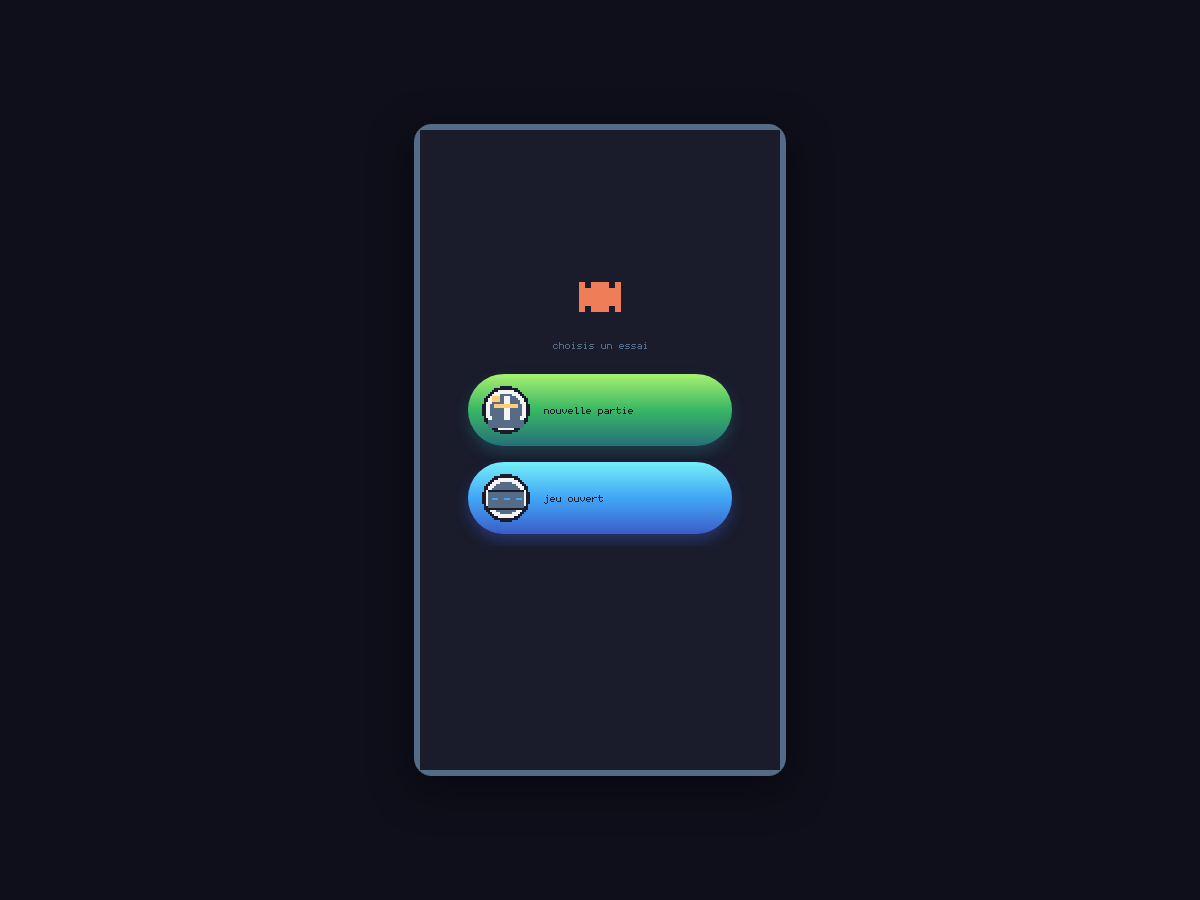
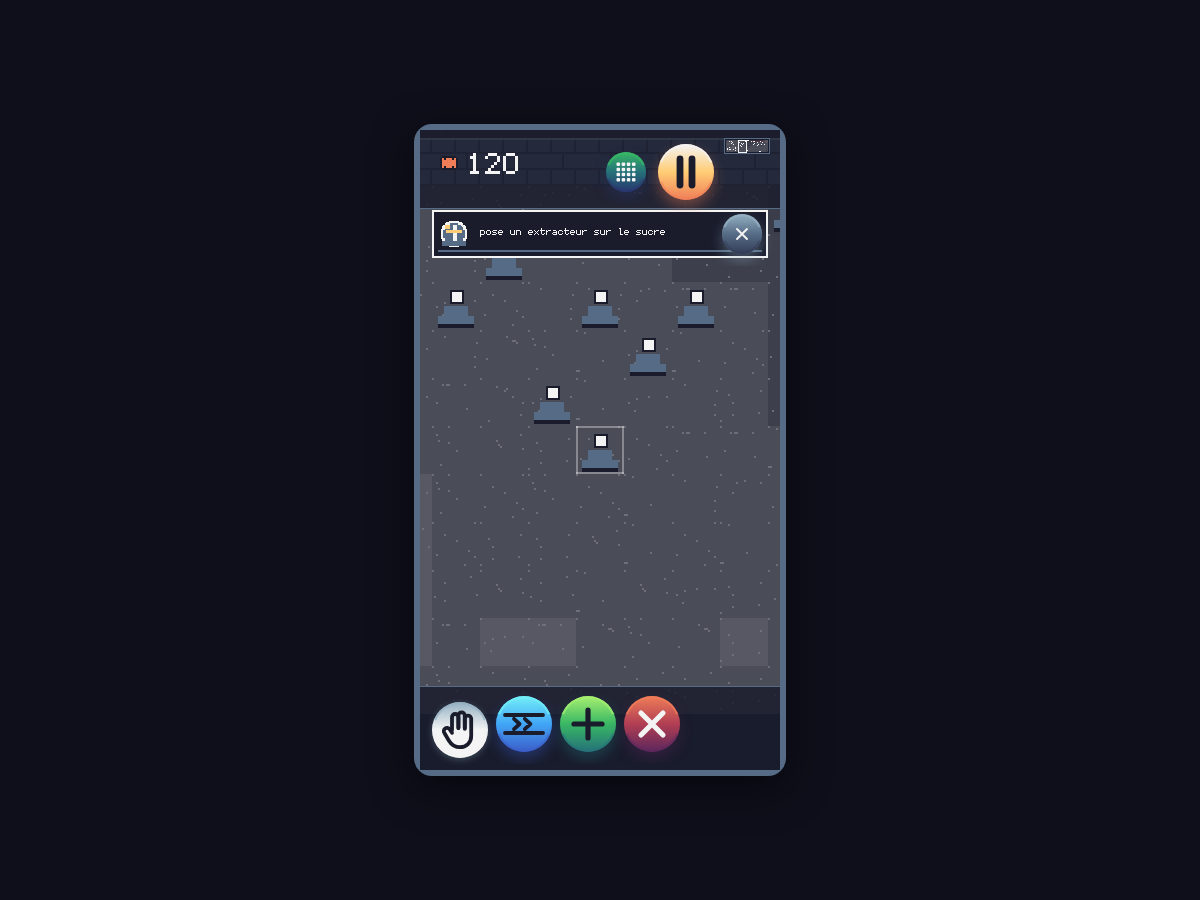
Version 1.7.0, et CLAUDE.md dit où l'on vend
Ce que ce lot a changé, et qui déroge à des décisions arrêtées :

  — il n'y a plus qu'une adresse, la réception du mur, qui achète et compte ;
  — un mur ouvert reste debout et laisse passer par ses connecteurs ;
  — la mini-carte ne montre que le monde ouvert, et grandit ;
  — la bêta s'ouvre sur deux essais, plus trois ;
  — trois étages sont jouables, le second mur réclamant de la fraise ;
  — le prix d'un geste s'écrit sur la case (render/cout.js).

Claude-Session: https://claude.ai/code/session_01Mr2xn8QvzTJXAxHSUxQHqT

Changed region(s): [[0.3392, 0.1556, 0.6475, 0.84], [0.37, 0.1556, 0.4317, 0.1867]]

diff --git a/src/data/version.js b/src/data/version.js
@@ -10,4 +10,4 @@
 //
 // Il monte à chaque version livrée. C'est ce que le joueur voit dans le menu pause,
 // et ce que le bandeau de mise à jour annonce.
-export const VERSION = '1.6.0';
+export const VERSION = '1.7.0';

diff --git a/CLAUDE.md b/CLAUDE.md
@@ -55,15 +55,16 @@ Ne pas rediscuter ces points sans me le demander explicitement.
   — un enfant peut changer d'avis. Ils ne coûtent pour l'instant pas plus l'un
   que l'autre : leur donner chacun son fruit demanderait un troisième tapis
   jusqu'à la plieuse, et donc de réécrire le tutoriel.
-- **La livraison les reçoit tous les trois** et les compte séparément : c'est
-  la vitrine. L'écran garde son unique compteur — la caisse — et c'est au livre
-  des matières que le détail se lit, sous chaque chose qu'elle achète. Elle en accepte
-  **quatre tapis** et non trois : une machine réserve un côté à sa sortie, et
-  la livraison ne sort nulle part.
+- **La réception du mur les reçoit tous les trois** et les compte séparément :
+  c'est la vitrine. L'écran garde son unique compteur — la caisse — et c'est au
+  livre des matières que le détail se lit, sous chaque chose qu'elle achète.
+  Elle en accepte **quatre tapis** et non trois : une machine réserve un côté à
+  sa sortie, et la réception ne sort nulle part.
 - **Les trieurs et les transformateurs se construisent.** Trieur, chaufferie,
   confiserie et plieuse sont des éléments constructibles comme le convoyeur :
   on les pose sur une cellule libre, et l'outil destruction les retire. La
-  livraison, elle, reste en place.
+  réception du mur, elle, reste en place : elle appartient au mur, elle arrive
+  et repart avec lui.
 - **Le tri se fait dans une machine, jamais sur un tapis.** Un trieur a deux
   branches : la matière que le joueur a choisie, et tout le reste. Le premier
   convoyeur tracé prend la matière choisie, le second ramasse le reste. La
@@ -117,14 +118,28 @@ Ne pas rediscuter ces points sans me le demander explicitement.
   convoyeur n'enlève que celle-là : l'amont et l'aval restent posés. Rien ne
   disparaît tout seul de la grille, même un tapis que plus rien n'alimente.
 - **Un seul compteur à l'écran** : la caisse. Il ne compte plus des bonbons
-  mais ce qu'ils valent — la livraison achète aussi le caramel et la pastille.
+  mais ce qu'ils valent — la réception achète aussi le caramel et la pastille.
   Le reste se lit sur la grille, dans les jauges des machines et dans ce qui
   circule.
-- **La livraison achète, elle ne collectionne pas.** Elle prend le caramel (1),
-  la pastille (3) et les trois bonbons (10). La plus petite chaîne qui
-  rapportait quelque chose faisait quatre extracteurs et quatre machines : huit
-  poses avant le premier retour. C'est maintenant extracteur → chaufferie →
-  livraison, trois éléments, et ça rapporte. Le bonbon est ce qu'on fait pour
+- **Il n'y a qu'une adresse, et c'est la réception du mur.** Le bâtiment
+  « livraison » n'existe plus. Il y avait deux endroits où porter ce qu'on
+  produisait — la livraison, qui payait, et la réception, qui comptait pour le
+  mur — et un enfant devait choisir entre les deux sans qu'on lui ait jamais
+  dit pourquoi. La réception paie ce qu'elle prend, et ce qui intéresse son mur
+  monte sa jauge au passage : **un seul geste, deux effets**. C'est ce qui
+  remplace « deux endroits, deux rôles », et c'est une décision qui a changé.
+  La chaîne doit donc monter jusqu'au mur pour rapporter — ce qui est
+  exactement ce que le jeu demande à chaque étage.
+  **Tout mur a sa réception**, même celui qu'on ne sait pas encore ouvrir :
+  sans elle, le dernier étage atteint n'aurait plus où vendre. Le dernier étage
+  du monde a donc lui aussi son mur, tout en haut, sans seuil.
+- **Elle achète, elle ne collectionne pas.** Elle prend le caramel (1),
+  la pastille (3) et les trois bonbons (10), plus ce que son mur réclame quand
+  ce n'est pas de la même famille — une fraise ne se vend pas, mais un mur peut
+  en vouloir. La plus petite chaîne qui rapportait quelque chose faisait quatre
+  extracteurs et quatre machines : huit poses avant le premier retour. C'est
+  maintenant extracteur → chaufferie → réception, trois éléments, et ça
+  rapporte. Le bonbon est ce qu'on fait pour
   gagner plus, pas le péage d'entrée. L'écart est franc — un, trois, dix —
   parce que c'est lui qui dit qu'il vaut mieux aller au bout de la chaîne :
   mesuré sur cinq minutes, le noyau rapporte 108. La chaîne complète rapportait
@@ -207,34 +222,40 @@ Ne pas rediscuter ces points sans me le demander explicitement.
 - **La satisfaction vient du rythme des déblocages**, pas de la taille des
   nombres.
 - **Cible : jouable au pouce par un enfant, sans lecture, sans urgence.**
-- **La bêta s'ouvre sur trois essais.** Au lancement, on choisit par quoi
-  commencer : *nouvelle partie* (carte nue, tutoriel), *usine qui tourne*
-  (la chaîne complète déjà posée), *bac à sable* (carte nue, sans tutoriel).
-  Un essai n'est qu'une disposition de départ plus le tutoriel ou non — c'est
-  une entrée de `data/scenarios.js`. Le menu pause y ramène, le temps de la
-  bêta.
-  **Une quatrième touche s'y ajoute, en tête, quand une partie attend** :
+- **La bêta s'ouvre sur deux essais.** Au lancement, on choisit par quoi
+  commencer : *nouvelle partie* — le jeu, avec ses murs et son premier contact
+  — ou *jeu ouvert*, l'ancien jeu : tous les étages franchis, une carte neuve à
+  chaque fois, et de quoi bâtir sans compter. Un essai n'est qu'une disposition
+  de départ plus le tutoriel ou non — c'est une entrée de `data/scenarios.js`.
+  Le menu pause y ramène, le temps de la bêta.
+  Il y en avait trois : *usine qui tourne* est exactement ce que le tutoriel
+  bâtit, et la proposer toute faite à côté de lui offrait deux portes pour la
+  même pièce. Elle reste dans `data/depart.js`, où les outils la jouent — c'est
+  la mesure de l'économie, plus un essai.
+  **Une troisième touche s'y ajoute, en tête, quand une partie attend** :
   *reprendre*. Ce n'est pas un essai de plus — elle ne bâtit rien, elle
   retrouve — et elle n'est pas là quand il n'y a rien à reprendre. L'écran
-  s'ouvre donc toujours sur ses trois essais, et reprendre reste un geste
+  s'ouvre donc toujours sur ses deux essais, et reprendre reste un geste
   demandé : commencer un essai efface la partie en cours, et l'enfant l'a
   voulu.
-  **Le bac à sable ouvre tous les étages** : c'est ce qu'un bac à sable veut
+  **Le jeu ouvert ouvre tous les étages** : c'est ce qu'un bac à sable veut
   dire, et on n'y fait pas attendre pour essayer une plieuse. C'est une entrée
   de `data/scenarios.js`, pas une exception dans le code.
 - **Le tutoriel mène jusqu'à une usine qui tourne.** C'est un système de plus,
   assumé : il ne sert qu'à la première partie et ne connaît que le résultat
   d'un geste, jamais le geste. Treize étapes dans `data/tutoriel.js`, un halo
   sur les cellules à toucher, l'image de ce qu'il y a à poser, et une barre qui
-  dit ce qu'il en reste. Ce qu'on obtient au bout est exactement la chaîne de
-  l'essai « usine qui tourne ». La fenêtre suit l'étape quand elle sort du
-  cadre.
+  dit ce qu'il en reste. Ce qu'on obtient au bout est exactement l'usine de
+  référence de `data/depart.js`, celle dont sortent tous les chiffres de
+  l'économie. La fenêtre suit l'étape quand elle sort du cadre.
   **Il se joue au pied du monde**, à l'étage 1 : il n'a plus à enseigner les
   quatre matières d'un coup — ce sont les murs qui les présentent une par une —
   et il a rétréci d'autant. Ce qu'il montre tient en une phrase : *une branche,
-  puis la même deux fois de plus.* Extracteur, chaufferie, livraison, et le
-  premier caramel vendu à la cinquième étape ; le reste du jeu n'est que ça, en
-  plus grand.
+  puis la même deux fois de plus.* Extracteur, chaufferie, et le tapis qui
+  monte au mur ; le premier caramel vendu à la cinquième étape, et le reste du
+  jeu n'est que ça, en plus grand. La deuxième moitié de chaque branche est une
+  remontée vers la réception du mur : c'est exactement ce que le jeu demandera
+  à chaque étage, et ça s'apprend là.
   Quatre épreuves seulement — un extracteur posé, une machine à sa case, des
   tapis qui relient deux machines, un bonbon livré — et une étape de plus est
   une entrée de plus. **Un bouton le passe** : on ne guide plus, et rien n'est
@@ -308,8 +329,8 @@ dans l'étage où il naît, et il en porte donc la matière.
 gisements de sucre écrits dans `data/monde.js`, et rien de tiré dans son rayon.
 C'est ce qui permet au tutoriel de nommer des cellules précises et à l'usine de
 départ d'être posée d'avance — la carte change autour d'eux, jamais sous eux.
-Un scénario porte sa graine : fixe pour le tutoriel et l'usine qui tourne,
-tirée pour le bac à sable.
+Un scénario porte sa graine : fixe pour la nouvelle partie, tirée pour le jeu
+ouvert.
 
 Un biome est une **couleur posée sur le noir à une transparence basse**, en
 trois nuances — de seize à vingt-huit pour cent. Elles ont doublé : à huit pour
@@ -375,13 +396,13 @@ dépend jamais de ce qu'on regarde. Un seul endroit du rendu connaît l'échelle
 
 ### Les étages, et les murs qui les séparent
 
-**Écrit, et jouable sur deux étages.** La forme est arrêtée depuis longtemps ;
+**Écrit, et jouable sur trois étages.** La forme est arrêtée depuis longtemps ;
 elle est maintenant dans le code — `data/zones.js`, `sim/mur.js`,
-`render/mur.js`. **Deux étages sont jouables**, le temps de voir si la
-mécanique tient : le monde du sucre et celui des fraises. Les trois du dessus
-existent — le monde fait toujours soixante rangées, et son sol se peint jusqu'en
-haut — mais leur mur ne s'ouvre pas, et ce qu'ils contiennent reste à décider.
-Ce qui manque encore est dit en fin de section.
+`render/mur.js`. **Trois étages sont jouables**, le temps de voir si la
+mécanique tient : le monde du sucre, celui des fraises, celui de la menthe. Les
+deux du dessus existent — le monde fait toujours soixante rangées, et son sol se
+peint jusqu'en haut — mais leur mur ne s'ouvre pas, et ce qu'ils contiennent
+reste à décider. Ce qui manque encore est dit en fin de section.
 
 **On ne progresse que vers le haut.** Le monde se lit en **étages**, des bandes
 horizontales de douze rangées sur les quarante-deux de large. Cinq étages
@@ -401,23 +422,28 @@ ouvrir un mur, voir l'étage 1 étouffer, redescendre l'élargir. Redescendre
 n'est pas une corvée de réparation, c'est le jeu.
 
 C'est le sucre et non la fraise parce qu'il y a du sucre dans tous les bonbons,
-qu'un enfant le sait, et que `sucre → chaufferie → livraison` est exactement le
+qu'un enfant le sait, et que `sucre → chaufferie → réception` est exactement le
 noyau à trois machines qui existe déjà : l'étage 1 ne coûte pas une donnée.
 
 **Un mur demande le produit de l'étage qu'il ferme** — du caramel pour le
-premier, le bonbon à la fraise pour le deuxième. On ne réclame jamais ce qu'on
+premier, de la fraise pour le deuxième. On ne réclame jamais ce qu'on
 ne sait pas encore faire, et le but est toujours « fais ce que tu viens
 d'apprendre, en plus grand ». Le total porté au mur ne se dépense pas : il
 monte pendant que la caisse, elle, se dépense.
 
 **On le lui porte : le mur a sa réception.** Trois cases creusées au milieu de
 sa rangée, une machine de la scène comme une autre, où l'on trace un tapis.
-Elle n'est pas la livraison — celle-ci achète et remplit la caisse, la
-réception avale et ne paie rien. Deux endroits, deux rôles : ouvrir un mur,
-c'est cesser de vendre une partie de ce qu'on produit, et ce choix se tire au
-tapis. Sans elle, il n'y avait rien à faire pour ouvrir un mur qu'attendre.
-Elle n'accepte que ce que le mur réclame ; le reste s'accumule sur le tapis et
-le joueur le voit — on ne jette rien en silence.
+**C'est la seule adresse du jeu** : elle achète ce qu'on lui porte et remplit
+la caisse, et ce qui intéresse son mur monte sa jauge au passage. Sans elle, il
+n'y avait rien à faire pour ouvrir un mur qu'attendre.
+Elle accepte ce que la table des livrables nomme, plus ce que son mur réclame
+quand ce n'est pas de la même famille ; le reste s'accumule sur le tapis et le
+joueur le voit — on ne jette rien en silence.
+Un mur dont le seuil porte sur une matière qui ne se vend pas — la fraise du
+deuxième — se choisit donc vraiment : on cesse de tout vendre pour en porter
+une part au mur. Un mur dont le seuil porte sur une chose qui se vend tombe en
+même temps qu'on gagne, et c'est bien : le premier mur ne doit rien demander
+de plus que de jouer.
 
 **Une flèche au bord de la zone sûre** dit de quel côté elle est quand elle
 sort du cadre, avec la matière qu'elle attend : le mur fait quarante-deux cases
@@ -430,22 +456,30 @@ chacune de ses cases, si bien que le tracé, le raccord et le rendu n'ont rien
 appris de neuf ; ce qu'un tapis vise est alors **la case qu'il touche**, jamais
 l'ancre de la machine.
 
-**Un mur ouvert redevient du sol ordinaire.** Pas de porte, pas de goulot d'une
-case où les tapis s'étranglent : ouvert veut dire franchi, on n'y pense plus.
+**Un mur ouvert reste debout, et laisse passer par ses connecteurs.** Il ne
+redevient pas du sol ordinaire — c'était la décision d'avant, et elle a
+changé : un mur qui disparaît ne dit plus ce qu'on a gagné, et un étage franchi
+s'oublie. Sa rangée de blocs demeure ; ce qui s'ouvre, ce sont les trois cases
+de sa réception, encadrées de rouge. **Ce sont ses connecteurs** : c'est par là
+que la chaîne d'en bas monte à l'étage du dessus, et l'usine du dessous
+continue de tourner pour toujours. Trois cases pour quarante-deux, donc un
+passage à viser, et c'est voulu.
 
 **Ce qu'un mur montre, et pas un mot** : une rangée de blocs en ardoise, ce
 qu'il y a derrière éteint, et sa réception au milieu — la matière réclamée, une
 jauge qui se remplit, et trois chevrons qui disent par où ça entre.
 
 **Le premier mur demande cinquante caramels**, et c'est mesuré (`node
-outils/mur.mjs`) : un tapis détourné vers la réception l'ouvre en deux minutes
-vingt, deux tapis en une minute treize. L'écart est le message — on n'attend
-pas, on double. Il en demandait cent quand la livraison comptait pour lui ;
-depuis qu'il a sa réception, ce qu'on lui porte n'est plus vendu, et le seuil
-se paie deux fois.
+outils/mur.mjs`) : l'usine de départ et ses trois branches l'ouvrent en
+cinquante secondes, une seule branche en deux minutes vingt. **Le deuxième
+demande soixante fraises** : un extracteur relié au mur l'ouvre en deux minutes
+cinquante, trois en cinquante-six secondes. L'écart est le message — on
+n'attend pas, on élargit.
 
-**Un mur sans seuil n'a pas de réception** : il est plein sur toute sa
-longueur, et c'est ce qui dit que le jeu s'arrête là.
+**Un mur sans seuil a quand même sa réception** : il ne s'ouvre pas — c'est ce
+qui dit que le jeu s'arrête là — mais on y vend, sans quoi le dernier étage
+atteint n'aurait plus où porter ce qu'il produit. Le dernier étage du monde
+porte lui aussi un mur, tout en haut, et c'est celui-là.
 
 **Ce que le mur coûte vraiment**, et c'est peu : une rangée où l'on ne peut pas
 bâtir, un plafond sur les bornes de la caméra qui remonte quand il tombe, et un
@@ -454,7 +488,8 @@ atteindre qui grandit, et le scroll s'allonge tout seul.
 
 **Chaque étage apporte une mécanique**, pas seulement une matière : l'étage 1
 ouvre l'extracteur et la chaufferie, l'étage 2 le trieur — deux matières sur la
-carte, donc une raison d'en avoir un. C'est ce qui donne à un mur une
+carte, donc une raison d'en avoir un — et l'étage 3 la confiserie, la menthe
+achevant enfin la pastille. C'est ce qui donne à un mur une
 récompense au-delà de « une case de plus à récolter », et c'est là que le jeu
 grossira sans grossir en systèmes — un étage est une entrée de table.
 
@@ -464,10 +499,13 @@ chaufferie, et c'est tout ce qu'il y a à comprendre. Une touche éteinte dirait
 qu'il y a autre chose, et c'est déjà ce que dit le mur — il n'y a pas deux
 façons de dire la même chose à un enfant.
 
-**La mini-carte montre les étages fermés en éteint**, comme le livre des
-matières montre les silhouettes de ce qu'on n'a pas trouvé : on voit qu'il y a
-quelque chose là sans savoir encore quoi. Elle devient la barre de progression
-du jeu entier.
+**La mini-carte ne montre que le monde ouvert.** Elle éteignait les étages
+fermés pour en garder la silhouette ; une silhouette dit « il y a quelque chose
+là », et c'est déjà ce que dit le mur, qu'on a sous les yeux — deux façons de
+dire la même chose à un enfant, c'est une de trop. Elle commence donc à la
+taille d'un étage et **grandit à chaque mur qui tombe** : c'est elle, la barre
+de progression du jeu entier, non plus un voile qui se retire mais une carte
+qui s'allonge.
 
 **Ce que cela a retiré.** La clairière du centre : son rôle — un peu de tout au
 milieu, pour faire un bonbon sans traverser quoi que ce soit — est repris par
@@ -493,14 +531,13 @@ est intolérable. Elle est faite : la partie s'écrit et se reprend (section 1,
 
 À décider, et rien n'est codé dans ce sens :
 
-- **ce que réclame le mur de l'étage 2.** La fraise seule ne fabrique rien — la
-  pastille demande aussi la menthe —, et on ne réclame jamais ce qu'on ne sait
-  pas encore faire. Son mur ne s'ouvre donc pas : le jeu s'arrête là.
+- **ce que réclame le mur de l'étage 3.** La pastille est enfin faisable là —
+  caramel, fraise et menthe — mais le bonbon demande le papier, donc la forêt.
+  Son mur ne s'ouvre donc pas : le jeu s'arrête là.
 - **ce qu'est le cinquième étage.** Il y a quatre matières et cinq bandes. La
   cinquième porte pour l'instant le biome de terre et aucun gisement.
-- **les trois bonbons et le papier**, qui demandent la forêt et la menthe :
-  l'étage 3 ouvre la confiserie et l'étage 4 la scierie et la plieuse, mais
-  aucun des deux murs n'a de seuil.
+- **les trois bonbons et le papier**, qui demandent la forêt : l'étage 4 ouvre
+  la scierie et la plieuse, mais son mur n'a pas de seuil.
 
 ### Règle de croissance
 
@@ -727,6 +764,12 @@ Toute action produit un retour dans la même frame : surbrillance de la cellule,
 déformation courte de l'icône, ou changement de couleur. Aucune action ne doit
 pouvoir sembler ignorée.
 
+**Ce qu'un geste coûte s'écrit sur la case.** La caisse est en haut de l'écran
+et la main en bas : un enfant qui pose un extracteur ne voyait pas le nombre
+bouger. Le prix monte donc de la case elle-même — en rouge ce qu'on paie, en
+vert ce que la destruction rend — puis s'efface. Un tracé dit son total au bout
+du doigt : un « -1 » par tuile ferait une pluie le long du tapis.
+
 Un bouchon qui dure se signale par une bulle de bande dessinée en éclats,
 avec ses « !!! », qui sort de l'endroit bloqué. **Une bulle ne sort que là où
 la chaîne s'arrête pour de bon** — tout le reste se tait :
@@ -808,9 +851,9 @@ une partie qui se relit puis dérive n'est pas sauvegardée.
 Toute vérification visuelle passe d'abord par `node outils/lisibilite.mjs`,
 puis produit **les deux captures, systématiquement** :
 la cible mobile et l'aperçu desktop. Jamais l'une sans l'autre. `outils/captures.mjs`
-les génère toutes les deux ; il choisit l'essai « usine qui tourne » par la
+les génère toutes les deux ; il choisit l'essai « nouvelle partie » par la
 sonde, sinon il ne montrerait que l'écran des essais (`ESSAI=choix` pour le
-voir, `ESSAI=nouvelle` pour le tutoriel).
+voir, `ESSAI=ouvert` pour le jeu ouvert).
 
 Toute livraison fournit aussi **les deux URL à essayer**, jamais les captures
 seules :
@@ -853,8 +896,8 @@ src/
     monde.js        les gisements du pied du monde, cadences d'extraction
     biomes.js       biomes, bouquets, fondu
     zones.js        les étages : biome, matière, ce qu'ils ouvrent, leur mur
-    depart.js       dispositions de départ : usine qui tourne, carte nue
-    scenarios.js    les trois essais de la bêta
+    depart.js       dispositions de départ : l'usine de référence, carte nue
+    scenarios.js    les deux essais de la bêta
     tutoriel.js     étapes du premier contact
     version.js      le numéro de version, et rien d'autre
     outils.js       outils, éléments constructibles, et ce qu'ils coûtent
@@ -878,6 +921,7 @@ src/
     particules.js   fumée et étoiles
     vapeurs.js      les souffles des machines, table de formes
     pose.js         la cellule qu'on vient de poser, et son éclat
+    cout.js         le prix d'un geste, qui monte de la case et s'efface
     chevron.js      les chevrons qui défilent le long d'un tapis
     alerte.js       la bulle « !!! » d'un bouchon qui dure
     sprites.js      atlas, dessin des tuiles
@@ -939,8 +983,8 @@ Depuis, le lot a grossi sur décision : deuxième matière et première recette
 (a + b = c), gisements et trieur, la chaîne complète du bonbon, la
 construction des trieurs et des transformateurs, puis la carte générale — une
 seule grille de 42 × 60 cellules, où l'on mine et où l'on construit au même
-endroit. La bêta y ajoute ses trois essais et le tutoriel du premier contact,
-et l'économie ses prix : la livraison achète, et bâtir coûte. Ces ajouts sont
+endroit. La bêta y ajoute ses deux essais et le tutoriel du premier contact,
+et l'économie ses prix : la réception du mur achète, et bâtir coûte. Ces ajouts sont
 décrits en section 1.
 
 **Critère de validation : 200 items à l'écran à 60 fps sur téléphone.**
